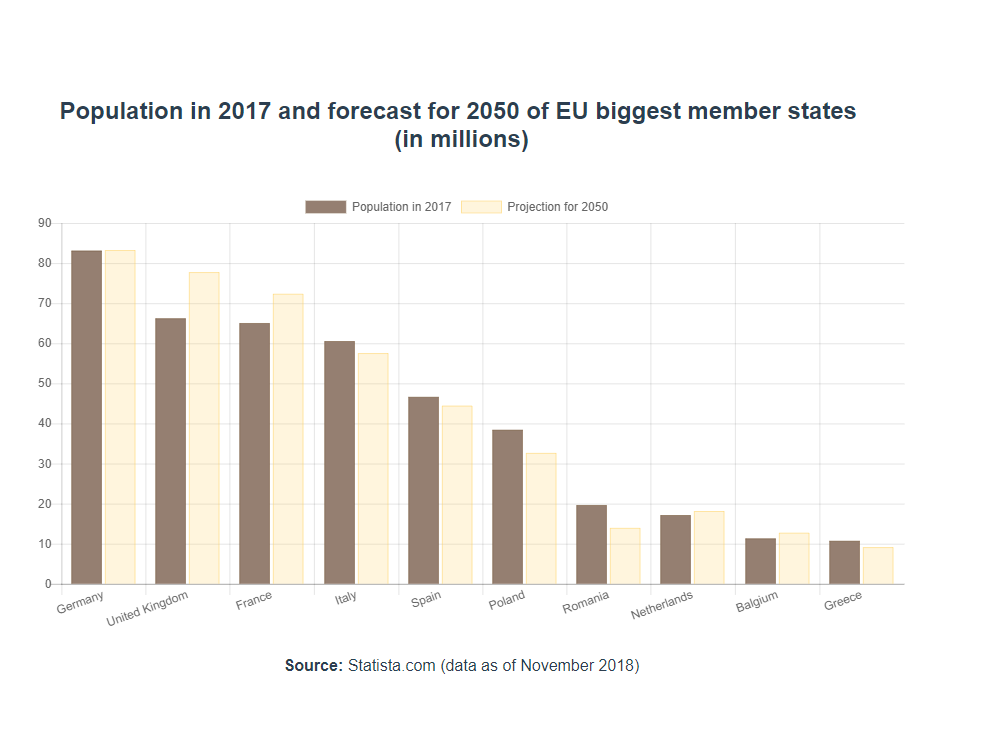
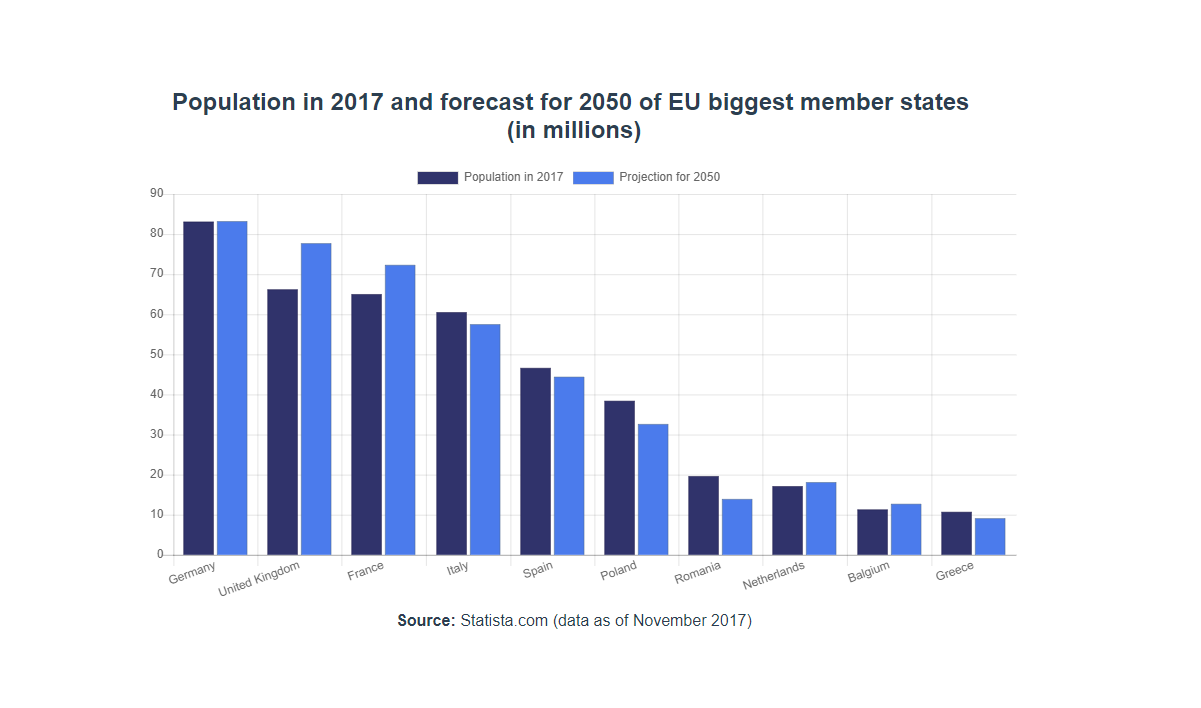
readme.md changes

diff --git a/src/App.vue b/src/App.vue
@@ -5,24 +5,28 @@
 </template>
 
 <script>
-import Graph from './components/graph';
-import Chart from 'chart.js'
+import Graph from "./components/graph";
+import Chart from "chart.js";
 
 export default {
-  name: 'App',
+  name: "App",
   components: {
     Graph
   }
-}
+};
 </script>
 
 <style>
+* {
+  margin: 0;
+  padding: 0;
+}
 #app {
-  font-family: 'Avenir', Helvetica, Arial, sans-serif;
+  font-family: "Avenir", Helvetica, Arial, sans-serif;
   -webkit-font-smoothing: antialiased;
   -moz-osx-font-smoothing: grayscale;
   text-align: center;
   color: #2c3e50;
-  margin-top: 60px;
+  //  margin-top: 60px;
 }
 </style>

diff --git a/src/components/graph.vue b/src/components/graph.vue
@@ -6,7 +6,7 @@
     </h2>
     <br>
     <div id="main"><canvas ref="chartjs"></canvas></div>
-      <p><strong>Source:</strong> Statista.com (data as of November 2018)</p>
+      <p><strong>Source:</strong> Statista.com (data as of November 2017)</p>
   </div>
 
 </template>

diff --git a/README.md b/README.md
@@ -14,4 +14,4 @@ npm run dev
 
 ## Image
 
-<img src="img.png" width="700px">
+<img src="img.png" width="800px">
